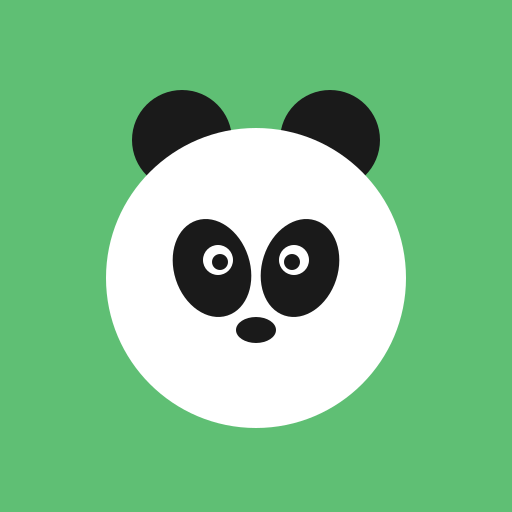
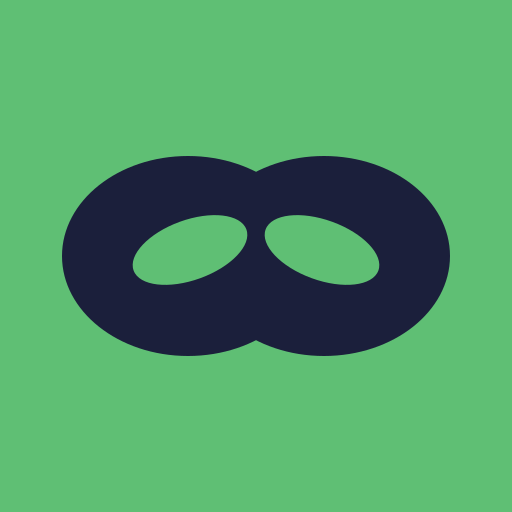
feat: rebrand til Tor Gunnar (fase 0) – navn, superhelt-maske-ikon, build 4
Navn/tittel/manifest → Tor Gunnar, 🦸♂ i banner. Nytt byttbart ikon
(domino-maske på bambusgrønn, full-bleed/maskable) via icon-src.svg.
Storage-nøkkel → torgunnar: med fallback til gammel pandacoins:-data.

diff --git a/js/store.js b/js/store.js
@@ -1,7 +1,8 @@
 import { defaultState, migrate, mergeState } from './logic.js';
 
 const ROOM = (location.hash.match(/r=([\w-]+)/) || [])[1] || 'local';
-const KEY = 'pandacoins:' + ROOM;
+const KEY = 'torgunnar:' + ROOM;
+const OLD_KEY = 'pandacoins:' + ROOM; // migrering: les gammel data hvis ny mangler
 
 export function nowIso() { return new Date().toISOString(); }
 export function todayIso() { return nowIso().slice(0, 10); }
@@ -12,7 +13,7 @@ export function newId() {
 export function loadState() {
   let local = defaultState();
   try {
-    const raw = localStorage.getItem(KEY);
+    const raw = localStorage.getItem(KEY) || localStorage.getItem(OLD_KEY);
     if (raw) local = mergeState(defaultState(), JSON.parse(raw));
   } catch (e) { /* korrupt cache → default */ }
   return migrate(local, todayIso());

diff --git a/index.html b/index.html
@@ -5,7 +5,7 @@
 <meta name="viewport" content="width=device-width, initial-scale=1, viewport-fit=cover">
 <meta name="apple-mobile-web-app-capable" content="yes">
 <meta name="theme-color" content="#0c0d12">
-<title>PandaCoins</title>
+<title>Tor Gunnar</title>
 <link rel="manifest" href="manifest.json">
 <link rel="apple-touch-icon" href="apple-touch-icon.png">
 <link rel="icon" type="image/png" href="favicon.png">
@@ -87,7 +87,7 @@
 <footer class="build" id="build"></footer>
 <script>window.EDGE_FUNCTION_URL = '';</script>
 <script type="module">
-  window.APP_VERSION = '3';
+  window.APP_VERSION = '4';
   window.APP_BUILD = '2026-10-16';
   const b = document.getElementById('build');
   if (b) b.textContent = 'build ' + window.APP_VERSION + ' · ' + window.APP_BUILD;

diff --git a/js/app.js b/js/app.js
@@ -42,7 +42,7 @@ function renderHome() {
     + tileHtml('📌', 'I dag', { count: todayN, level: todayN ? 'open' : 'calm' }, 'data-view="today"')
     + tileHtml('🔁', 'Rutiner', null, 'data-view="routines"')
     + tileHtml('⚙', 'Innstillinger', null, 'data-view="settings"');
-  return `<div class="banner"><div class="b">🐼 PandaCoins</div>`
+  return `<div class="banner"><div class="b">🦸♂ Tor Gunnar</div>`
     + `<div class="status">${esc(statusLine())}</div></div>`
     + `<div class="body">`
     + `<div class="capbar" data-cap="1"><span class="p">＋</span> Fang en tanke…</div>`

diff --git a/sw.js b/sw.js
@@ -1,5 +1,5 @@
-const VERSION = '3';
-const CACHE = 'pandacoins-v' + VERSION;
+const VERSION = '4';
+const CACHE = 'torgunnar-v' + VERSION;
 const SHELL = [
   './', './index.html', './manifest.json',
   './js/logic.js', './js/store.js', './js/app.js',

diff --git a/js/logic.js b/js/logic.js
@@ -1,4 +1,4 @@
-// PandaCoins ren logikk. Ingen DOM/nett/globaler.
+// Tor Gunnar ren logikk. Ingen DOM/nett/globaler.
 
 export function clone(s) { return JSON.parse(JSON.stringify(s)); }
 
